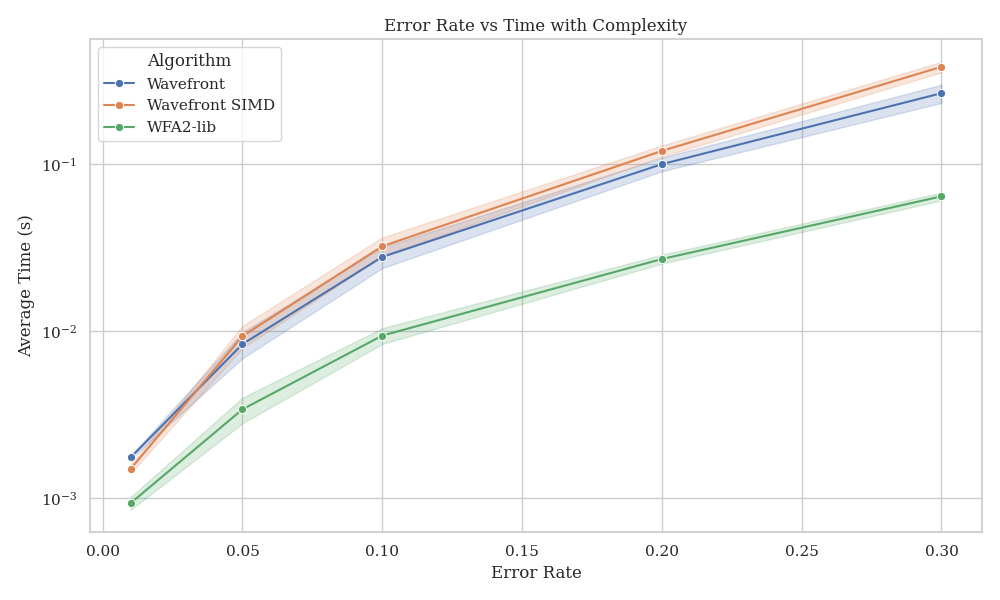
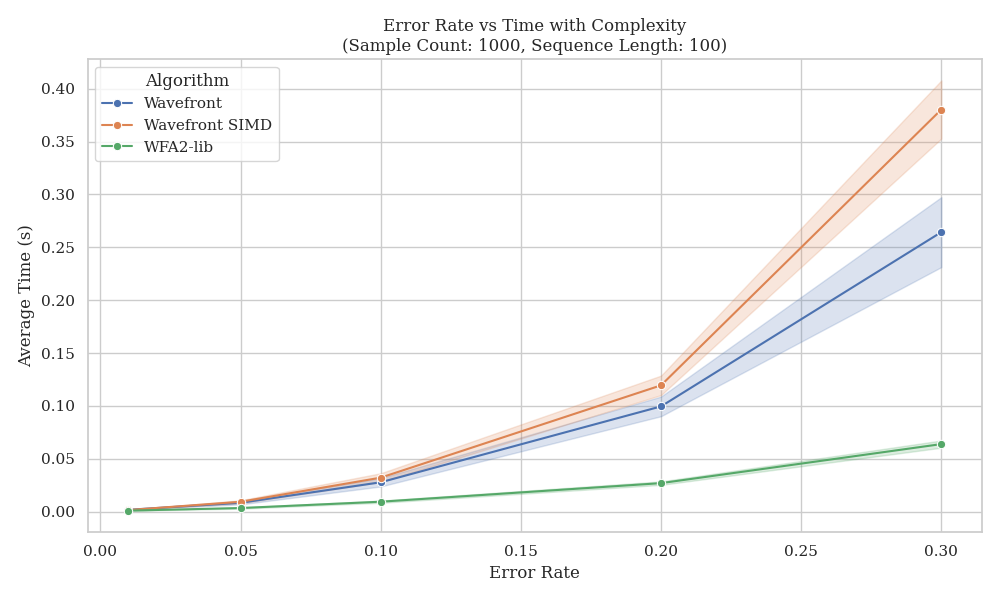
Graphing adjustments and naive alg

diff --git a/analysis/experiment.cpp b/analysis/experiment.cpp
@@ -86,7 +86,7 @@ void experiment_vary_error_rate(const std::string& executable, const std::string
     int sequence_length = 100;
     std::vector<double> error_rates = { 0.01, 0.05, 0.1, 0.2, 0.3 };
 
-    std::vector<std::string> algorithms = { "Wavefront", "Wavefront SIMD", "WFA2-lib" };
+    std::vector<std::string> algorithms = { "Naive", "Wavefront", "Wavefront SIMD", "WFA2-lib" };
     for (double error_rate : error_rates) {
         for (const auto& algorithm : algorithms) {
             double avg_time = run_alignment(executable, error_rate, sequence_length, num_samples, mismatch_penalty, gap_opening_cost, gap_extension_cost, algorithm);
@@ -103,7 +103,7 @@ void experiment_vary_sequence_length(const std::string& executable, const std::s
     int num_samples = 1000;
     std::vector<int> sequence_lengths = { 50, 100, 200, 500, 1000 };
 
-    std::vector<std::string> algorithms = { "Wavefront", "Wavefront SIMD", "WFA2-lib" };
+    std::vector<std::string> algorithms = { "Naive", "Wavefront", "Wavefront SIMD", "WFA2-lib" };
     for (int sequence_length : sequence_lengths) {
         for (const auto& algorithm : algorithms) {
             double avg_time = run_alignment(executable, error_rate, sequence_length, num_samples, mismatch_penalty, gap_opening_cost, gap_extension_cost, algorithm);
@@ -120,7 +120,7 @@ void experiment_vary_gap_opening(const std::string& executable, const std::strin
     int num_samples = 1000;
     std::vector<int> gap_opening_costs = { 1, 3, 6, 10, 15 };
 
-    std::vector<std::string> algorithms = { "Wavefront", "Wavefront SIMD", "WFA2-lib" };
+    std::vector<std::string> algorithms = { "Naive", "Wavefront", "Wavefront SIMD", "WFA2-lib" };
     for (int gap_opening_cost : gap_opening_costs) {
         for (const auto& algorithm : algorithms) {
             double avg_time = run_alignment(executable, error_rate, sequence_length, num_samples, mismatch_penalty, gap_opening_cost, gap_extension_cost, algorithm);
@@ -137,7 +137,7 @@ void experiment_vary_gap_extension(const std::string& executable, const std::str
     int num_samples = 1000;
     std::vector<int> gap_extension_costs = { 1, 2, 5, 10, 20 };
 
-    std::vector<std::string> algorithms = { "Wavefront", "Wavefront SIMD", "WFA2-lib" };
+    std::vector<std::string> algorithms = { "Naive", "Wavefront", "Wavefront SIMD", "WFA2-lib" };
     for (int gap_extension_cost : gap_extension_costs) {
         for (const auto& algorithm : algorithms) {
             double avg_time = run_alignment(executable, error_rate, sequence_length, num_samples, mismatch_penalty, gap_opening_cost, gap_extension_cost, algorithm);
@@ -154,7 +154,7 @@ void experiment_vary_mismatch_penalty(const std::string& executable, const std::
     int num_samples = 1000;
     std::vector<int> mismatch_penalties = { 1, 2, 4, 8, 10 };
 
-    std::vector<std::string> algorithms = { "Wavefront", "Wavefront SIMD", "WFA2-lib" };
+    std::vector<std::string> algorithms = { "Naive", "Wavefront", "Wavefront SIMD", "WFA2-lib" };
     for (int mismatch_penalty : mismatch_penalties) {
         for (const auto& algorithm : algorithms) {
             double avg_time = run_alignment(executable, error_rate, sequence_length, num_samples, mismatch_penalty, gap_opening_cost, gap_extension_cost, algorithm);
@@ -172,7 +172,7 @@ void experiment_joint_error_length(const std::string& executable, const std::str
     std::vector<int> sequence_lengths = { 50, 100, 200, 500 };
     std::vector<double> error_rates = { 0.01, 0.05, 0.1, 0.2 };
 
-    std::vector<std::string> algorithms = { "Wavefront", "Wavefront SIMD", "WFA2-lib" };
+    std::vector<std::string> algorithms = { "Naive", "Wavefront", "Wavefront SIMD", "WFA2-lib" };
     for (int sequence_length : sequence_lengths) {
         for (double error_rate : error_rates) {
             for (const auto& algorithm : algorithms) {
@@ -188,11 +188,11 @@ void experiment_interaction_gap_costs(const std::string& executable, const std::
     double error_rate = 0.1;
     int sequence_length = 100;
     int mismatch_penalty = 4;
-    int num_samples = 1000;
+    int num_samples = 1000000;
     std::vector<int> gap_opening_costs = { 1, 3, 6, 10 };
     std::vector<int> gap_extension_costs = { 1, 2, 5, 10 };
 
-    std::vector<std::string> algorithms = { "Wavefront", "Wavefront SIMD", "WFA2-lib" };
+    std::vector<std::string> algorithms = { "Naive", "Wavefront", "Wavefront SIMD", "WFA2-lib" };
     for (int gap_opening_cost : gap_opening_costs) {
         for (int gap_extension_cost : gap_extension_costs) {
             for (const auto& algorithm : algorithms) {
@@ -207,12 +207,12 @@ void experiment_interaction_gap_costs(const std::string& executable, const std::
 void experiment_sensitivity_analysis(const std::string& executable, const std::string& output_csv) {
     double error_rate = 0.1;
     int sequence_length = 100;
-    int num_samples = 1000;
+    int num_samples = 1000000;
     std::vector<int> mismatch_penalties = { 2, 4, 8 };
     std::vector<int> gap_opening_costs = { 3, 6, 10 };
     std::vector<int> gap_extension_costs = { 1, 5, 10 };
 
-    std::vector<std::string> algorithms = { "Wavefront", "Wavefront SIMD", "WFA2-lib" };
+    std::vector<std::string> algorithms = { "Naive", "Wavefront", "Wavefront SIMD", "WFA2-lib" };
     for (int mismatch_penalty : mismatch_penalties) {
         for (int gap_opening_cost : gap_opening_costs) {
             for (int gap_extension_cost : gap_extension_costs) {
@@ -234,7 +234,7 @@ void experiment_error_rate_complexity(const std::string& executable, const std::
     std::vector<double> error_rates = { 0.01, 0.05, 0.1, 0.2, 0.3 };
     std::vector<int> gap_opening_costs = { 6, 10 };
 
-    std::vector<std::string> algorithms = { "Wavefront", "Wavefront SIMD", "WFA2-lib" };
+    std::vector<std::string> algorithms = { "Naive", "Wavefront", "Wavefront SIMD", "WFA2-lib" };
     for (double error_rate : error_rates) {
         for (int gap_opening_cost : gap_opening_costs) {
             for (const auto& algorithm : algorithms) {
@@ -254,7 +254,7 @@ void experiment_length_gap_penalties(const std::string& executable, const std::s
     std::vector<int> sequence_lengths = { 50, 100, 200, 500 };
     std::vector<int> gap_opening_costs = { 3, 6, 10 };
 
-    std::vector<std::string> algorithms = { "Wavefront", "Wavefront SIMD", "WFA2-lib" };
+    std::vector<std::string> algorithms = { "Naive", "Wavefront", "Wavefront SIMD", "WFA2-lib" };
     for (int sequence_length : sequence_lengths) {
         for (int gap_opening_cost : gap_opening_costs) {
             for (const auto& algorithm : algorithms) {

diff --git a/analysis/graph.py b/analysis/graph.py
@@ -22,29 +22,27 @@ except FileNotFoundError:
 # Set seaborn aesthetics
 sns.set_theme(style="whitegrid")
 
-# Configure matplotlib to use LaTeX for text rendering
-plt.rcParams['text.usetex'] = False  # Disable LaTeX
+# Configure matplotlib font settings
 plt.rcParams['font.family'] = 'DejaVu Serif'  # Use a font similar to Computer Modern
 plt.rcParams['mathtext.fontset'] = 'cm'  # Use Computer Modern for math
 
-def plot_line(data, x, y, hue, title, x_label, y_label, output_file):
-    """Generate a line plot with logarithmic y-scale."""
+
+def plot_line(data, x, y, hue, title, x_label, y_label, output_file, sample_count, seq_length):
+    """Generate a line plot with dynamic title."""
     plt.figure(figsize=(10, 6))
     sns.lineplot(data=data, x=x, y=y, hue=hue, marker="o")
-    plt.yscale("log")  # Set logarithmic scale
-    plt.title(title)
+    plt.title(f"{title}\n(Sample Count: {sample_count}, Sequence Length: {seq_length})")
     plt.xlabel(x_label)
     plt.ylabel(y_label)
+    plt.yscale("log")
     plt.legend(title=hue)
     plt.tight_layout()
     plt.savefig(output_file)
     plt.close()
 
 
-def plot_heatmap_grid(data, x, y, z, title, x_label, y_label, output_file):
-    """
-    Generate a grid of heatmaps for each algorithm.
-    """
+def plot_heatmap_grid(data, x, y, z, title, x_label, y_label, output_file, sample_count, seq_length):
+    """Generate a grid of heatmaps for each algorithm with dynamic title and numeric gradient description."""
     algorithms = data["Algorithm"].unique()
     num_algorithms = len(algorithms)
     cols = 3  # Number of columns in the grid
@@ -60,10 +58,10 @@ def plot_heatmap_grid(data, x, y, z, title, x_label, y_label, output_file):
         sns.heatmap(
             pivot_table,
             annot=True,
-            fmt=".2e",  # Scientific notation
+            fmt=".2f",  # Regular numeric format
             cmap="viridis",
             ax=ax,
-            cbar_kws={"format": "%.1e"},  # Color bar in scientific notation
+            cbar_kws={"label": "Time (s)"},  # Add label to color bar
         )
         ax.set_title(algorithm)
         ax.set_xlabel(x_label)
@@ -75,21 +73,21 @@ def plot_heatmap_grid(data, x, y, z, title, x_label, y_label, output_file):
         ax = axes[row, col] if rows > 1 else axes[col]
         fig.delaxes(ax)
 
-    fig.suptitle(title, fontsize=16)
+    fig.suptitle(f"{title}\n(Sample Count: {sample_count}, Sequence Length: {seq_length})", fontsize=16)
     plt.savefig(output_file)
     plt.close()
 
 
 def plot_heatmap_single(data, x, y, z, title, x_label, y_label, output_file):
-    """Generate a single heatmap."""
+    """Generate a single heatmap with a gradient description."""
     plt.figure(figsize=(10, 6))
     pivot_table = data.pivot_table(index=y, columns=x, values=z)
     sns.heatmap(
         pivot_table,
         annot=True,
-        fmt=".2e",
+        fmt=".2f",  # Regular numeric format
         cmap="viridis",
-        cbar_kws={"format": "%.1e"},
+        cbar_kws={"label": "Time (s)"},  # Add label to color bar
     )
     plt.title(title)
     plt.xlabel(x_label)
@@ -196,7 +194,12 @@ experiments = {
 # Generate plots for each experiment
 for experiment, params in experiments.items():
     filtered_data = data[data["Experiment"] == experiment]
+    if filtered_data.empty:
+        continue
     output_file = os.path.join(output_dir, f"{experiment.replace(' ', '_')}.png")
+    sample_count = filtered_data["Sample Count"].iloc[0] if "Sample Count" in filtered_data.columns else "N/A"
+    seq_length = filtered_data["Sequence Length"].iloc[0] if "Sequence Length" in filtered_data.columns else "N/A"
+
     if params["type"] == "line":
         plot_line(
             filtered_data,
@@ -207,6 +210,8 @@ for experiment, params in experiments.items():
             x_label=params["x_label"],
             y_label=params["y_label"],
             output_file=output_file,
+            sample_count=sample_count,
+            seq_length=seq_length,
         )
     elif params["type"] == "heatmap_grid":
         plot_heatmap_grid(
@@ -218,6 +223,8 @@ for experiment, params in experiments.items():
             x_label=params["x_label"],
             y_label=params["y_label"],
             output_file=output_file,
+            sample_count=sample_count,
+            seq_length=seq_length,
         )
 
 print(f"Graphs saved to {output_dir}")

diff --git a/analysis/benchmark.cpp b/analysis/benchmark.cpp
@@ -34,6 +34,17 @@ int main(int argc, char* argv[]) {
         return 1;
     }
 
+    // Benchmark Naive
+    auto start = std::chrono::system_clock::now();
+    for (const auto& pair : sequences) {
+        const std::string& a = pair.first;
+        const std::string& b = pair.second;
+        wfa::naive(a, b, x, o, e, arena1);
+    }
+    auto end = std::chrono::system_clock::now();
+    fmt::println("Naive: {:%T}", end - start);
+    output_file << fmt::format("Naive: {:%T}\n", end - start);
+
     // Benchmark Wavefront
     auto start = std::chrono::system_clock::now();
     wfa::wavefront_arena_t arena1;
